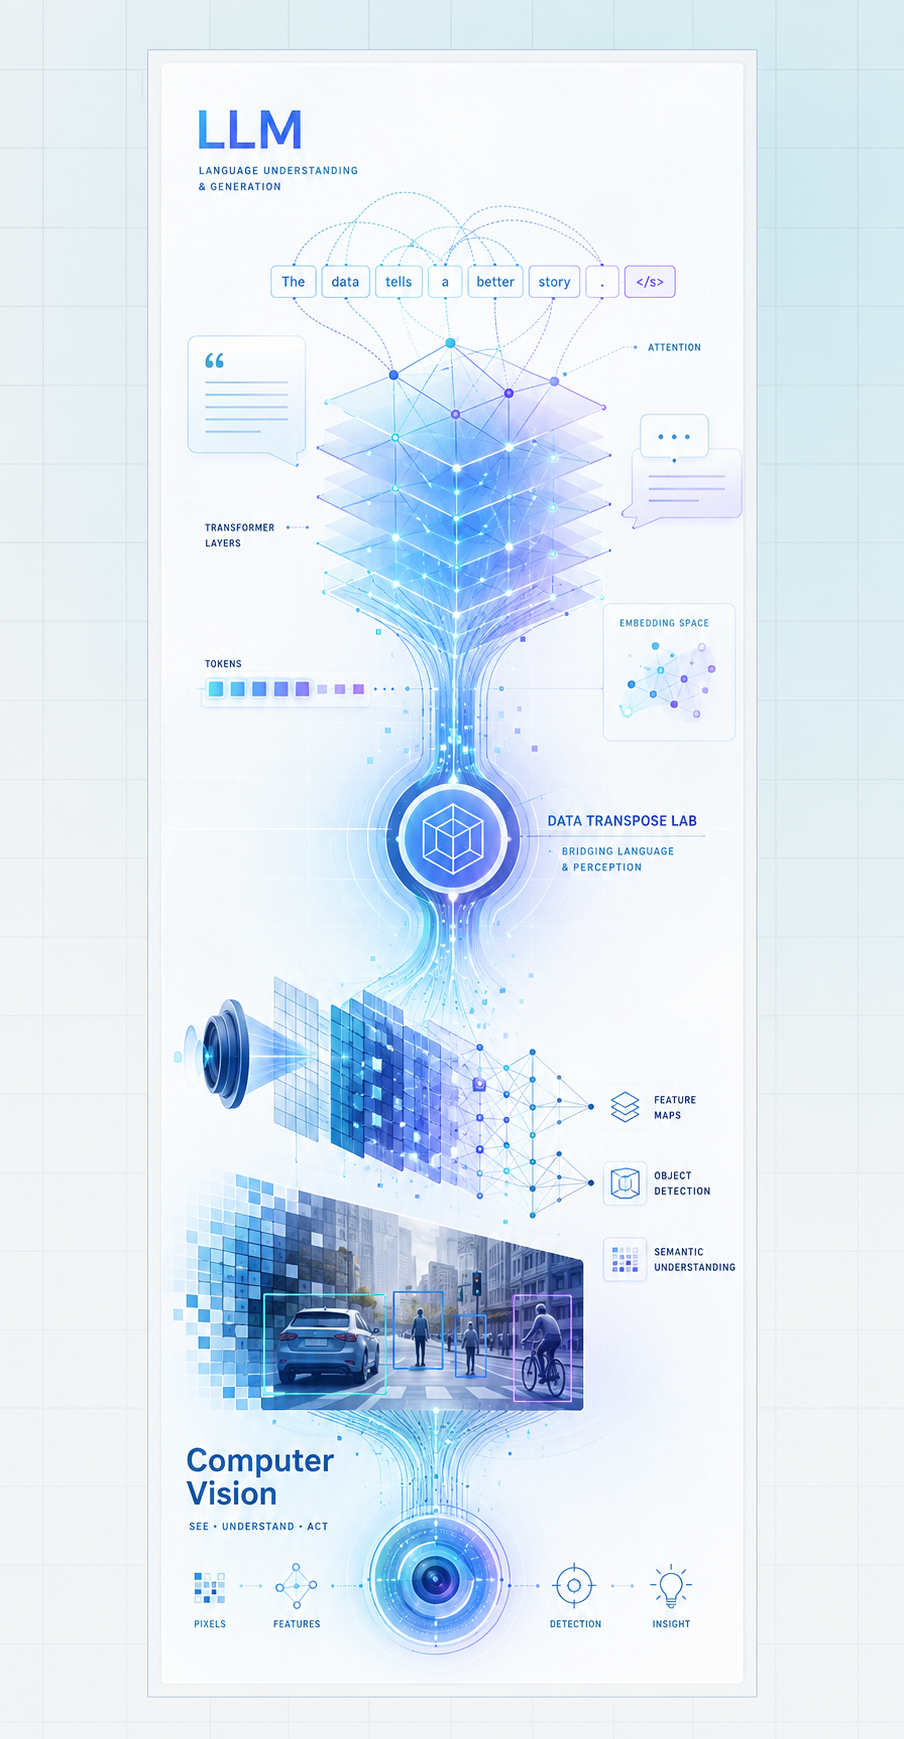
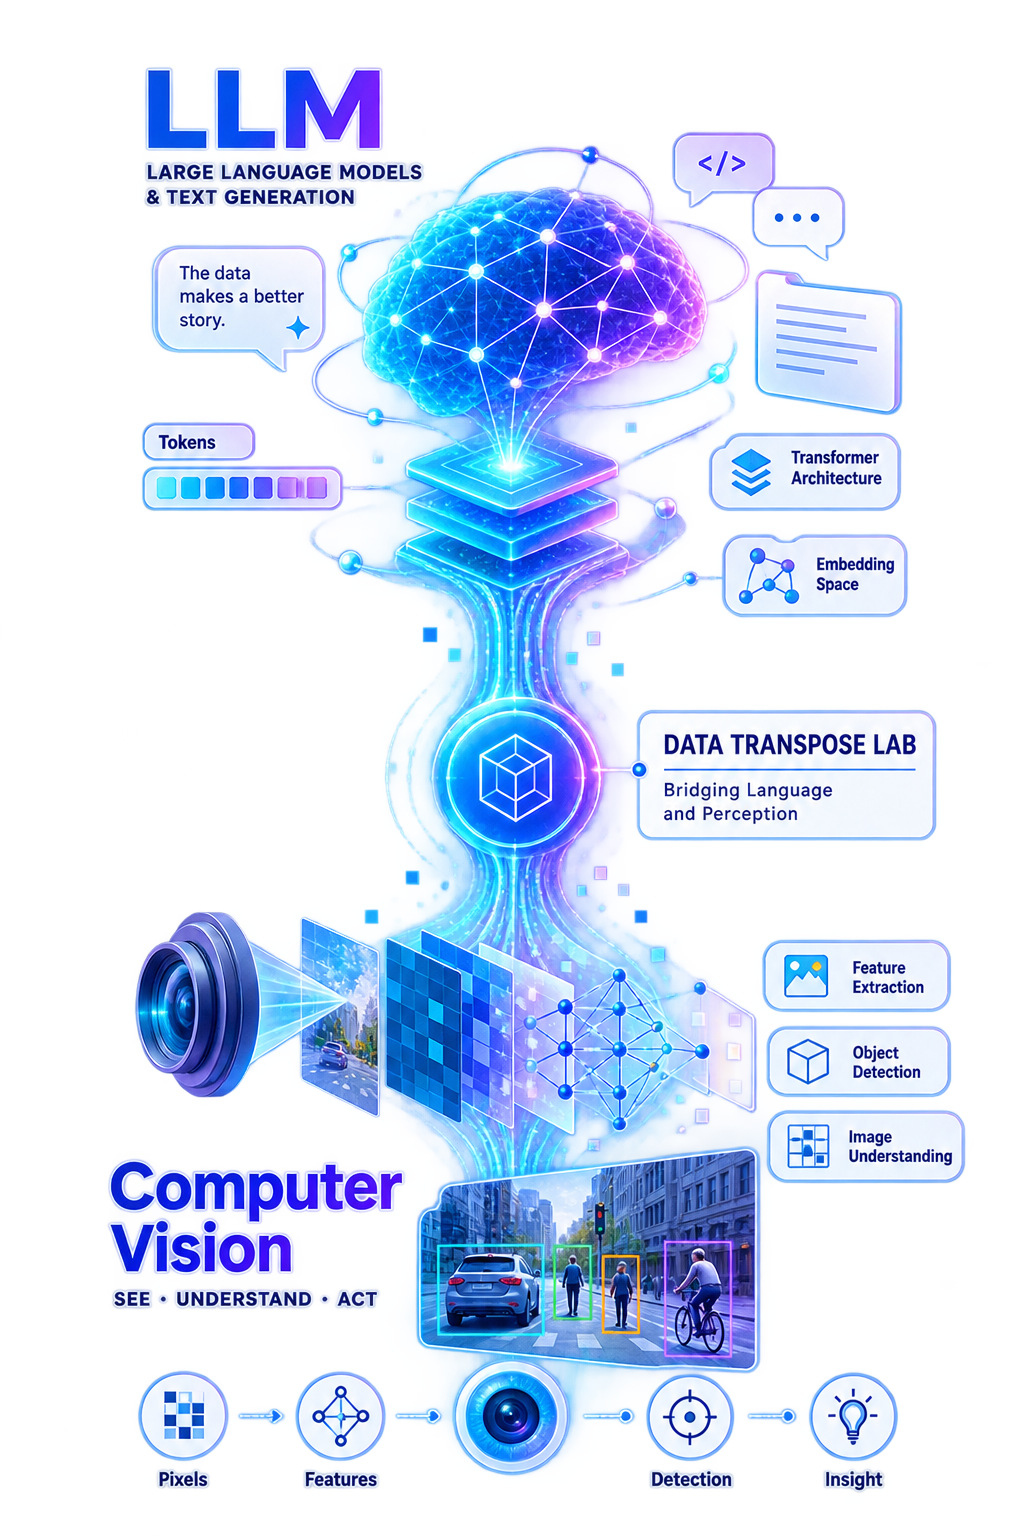
Update homepage visual

diff --git a/assets/css/main.css b/assets/css/main.css
@@ -877,7 +877,7 @@ p, li { max-width: 72ch; text-wrap: pretty; }
   .people-grid-faculty .person-media,
   .people-grid-phd_students .person-media { min-height: 0; aspect-ratio: 1; border-right: 0; border-bottom: 1px solid var(--line); }
   .hero { min-height: 620px; grid-template-columns: 1fr; }
-  .hero .hero-visual { grid-column: 1; grid-row: auto; width: min(100%, 22rem); aspect-ratio: 904 / 1739; justify-self: center; -webkit-mask-image: none; mask-image: none; }
+  .hero .hero-visual { grid-column: 1; grid-row: auto; width: min(100%, 22rem); aspect-ratio: 2 / 3; justify-self: center; -webkit-mask-image: none; mask-image: none; }
   .hero-visual img { object-fit: contain; }
   .publication, .news-item { grid-template-columns: 1fr; gap: .65rem; }
   .publication h2, .news-item h2, .publication > p, .news-item > p, .publication .link-list, .news-item > a, .publication .meta:first-of-type, .news-item .news-date { grid-column: 1; grid-row: auto; }

diff --git a/index.md b/index.md
@@ -15,7 +15,7 @@ title: Home
     <a class="button" href="{{ '/people/' | relative_url }}">Meet the team</a>
   </div>
   <figure class="hero-visual">
-    <img src="{{ '/assets/images/branding/dt_main-transparent.png' | relative_url }}" alt="Data Transpose Lab visual connecting large language models and computer vision" width="904" height="1740">
+    <img src="{{ '/assets/images/branding/dt_main.png' | relative_url }}" alt="Data Transpose Lab visual connecting large language models and computer vision" width="1024" height="1536">
   </figure>
 </section>
 
